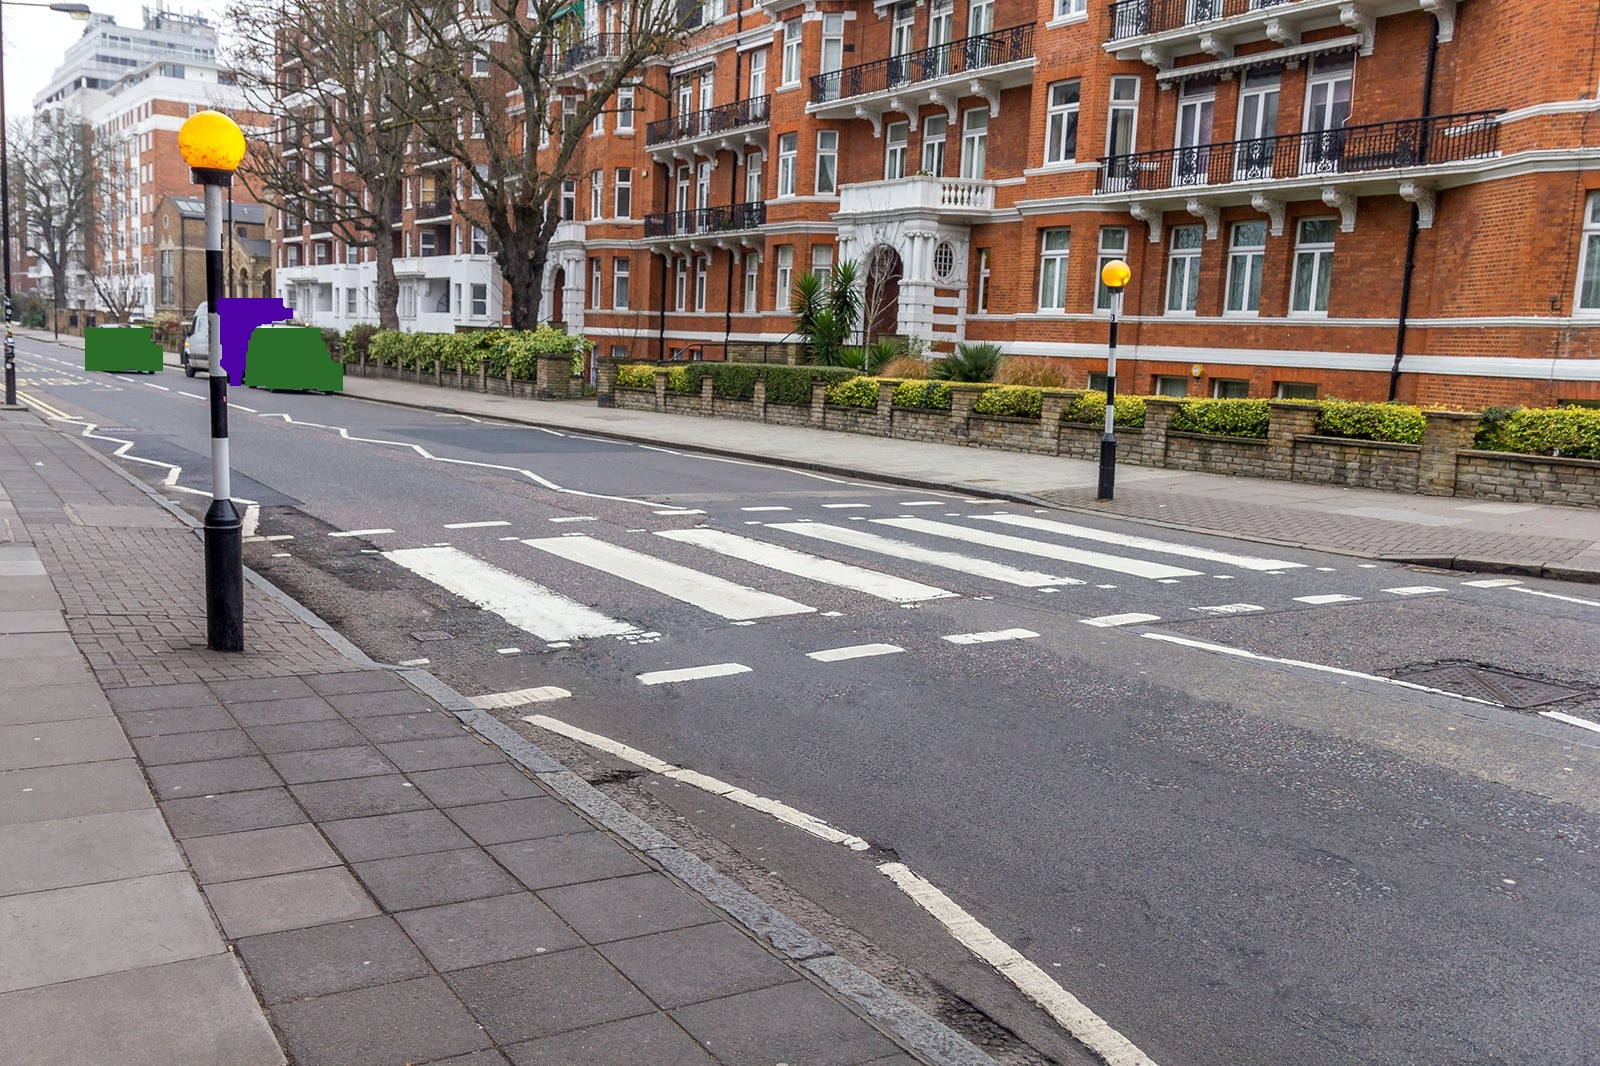
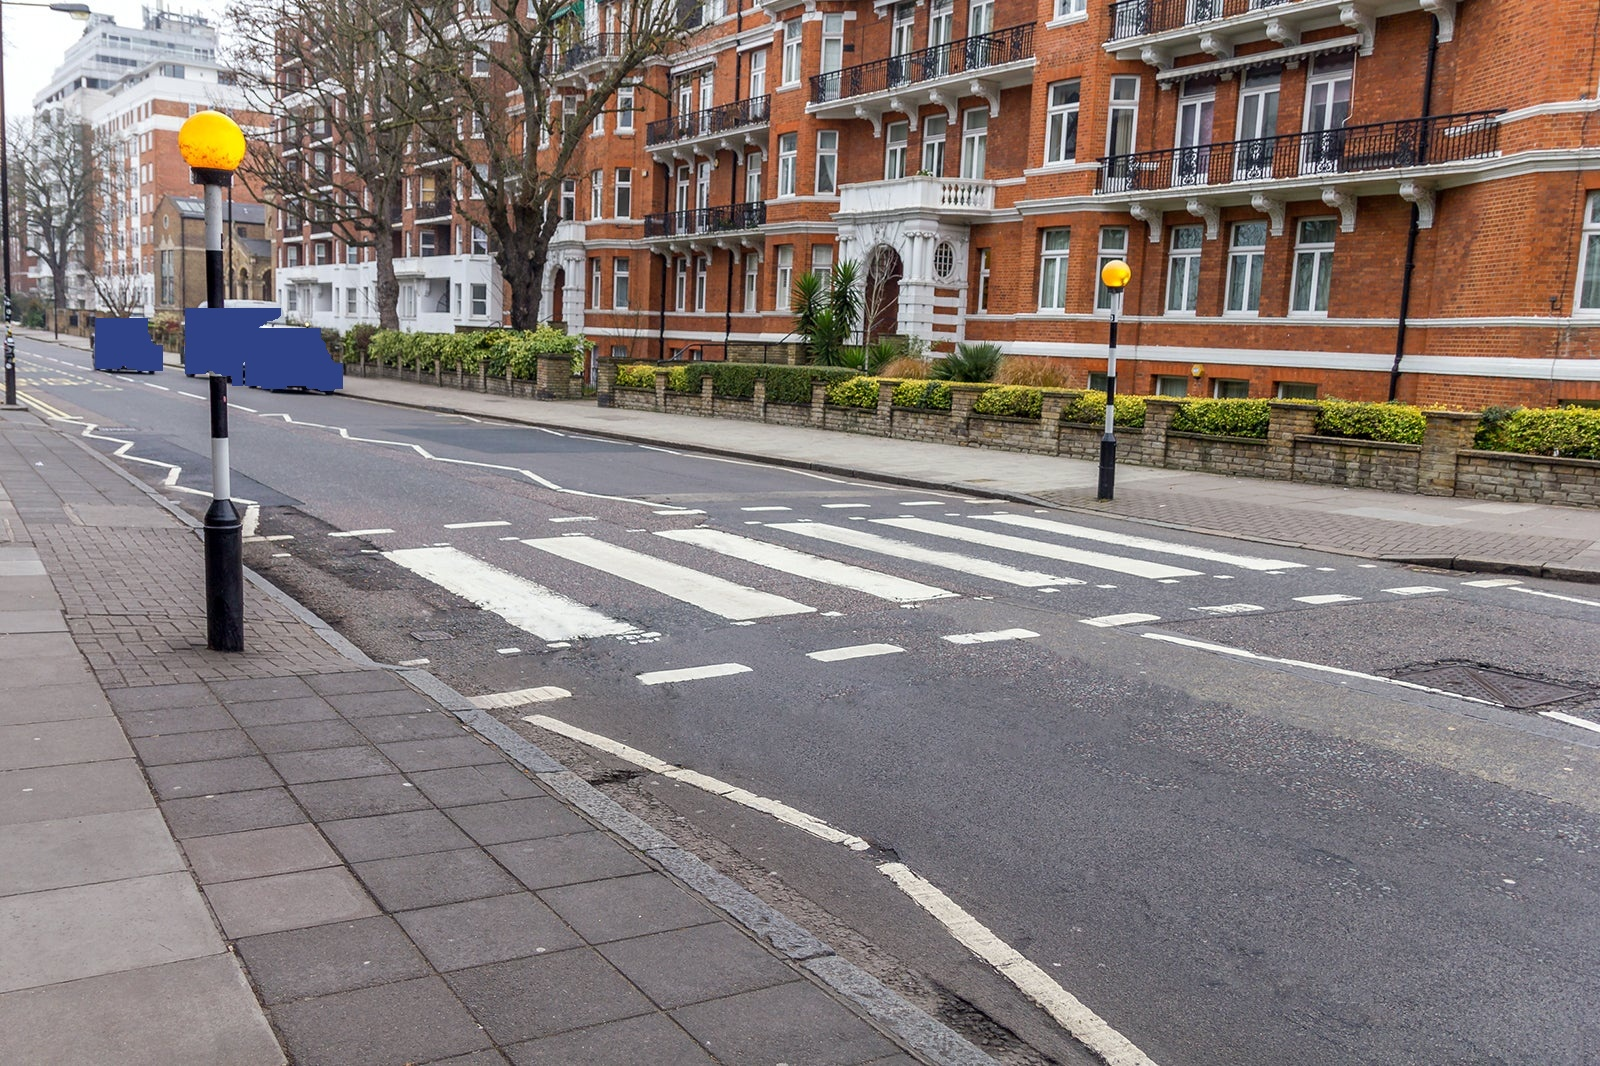
try smaller model

Changed region(s): [[0.0312, 0.2786, 0.2188, 0.3715]]

diff --git a/YOLO_sem_seg.py b/YOLO_sem_seg.py
@@ -3,7 +3,7 @@ import random
 import cv2
 import numpy as np
 
-model = YOLO("models/yolov8m-seg.pt") # taken from here: https://docs.ultralytics.com/tasks/segment/#models
+model = YOLO("models/yolov8n-seg.pt") # taken from here: https://docs.ultralytics.com/tasks/segment/#models
 img = cv2.imread("assets/semantic_segmentation/in.jpg")
 
 # if you want all classes
